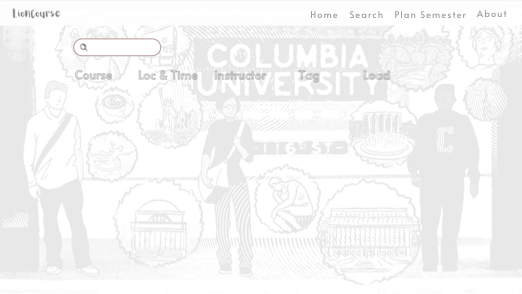
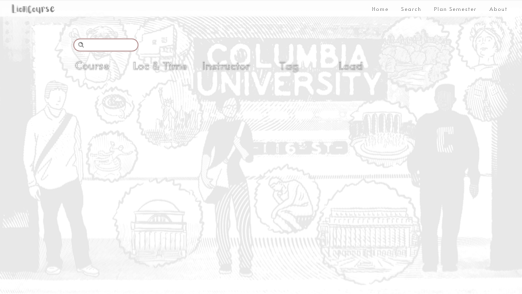
Updates on UI Design Resourse - Sketch

diff --git a/UI Design Resource - Sketch/data/handoff.js b/UI Design Resource - Sketch/data/handoff.js
@@ -1,2 +1,2 @@
 const SYMBOLS_DICT = {};
-const TOKENS_DICT = {};var layersData = [{"ii":0,"tp":"Artboard","nextLinkIndex":0,"artboardType":0,"isModal":false,"disableFixedLayers":false,"overlayOverFixed":false,"overlayAlsoFixed":true,"overlayClosePrevOverlay":false,"transAnimType":0,"overlayByEvent":0,"oldOverlayAlign":0,"overlayPin":0,"overlayPinHotspot":0,"overlayPinPage":0,"index":0,"x":186,"y":273,"w":1920,"h":1080,"c":[{"ii":1,"tp":"Image","x":0,"y":0,"w":1920,"h":1080,"n":"Background","iu":"images/web_home--0.png"},{"ii":2,"tp":"ShapePath","x":0,"y":1,"w":1920,"h":93,"n":"Nav Bar","pr":"background-color: #FFFFFF;\nopacity: 0.9;\n"},{"ii":3,"tp":"Group","x":668,"y":526,"w":584,"h":78,"c":[{"ii":4,"tp":"ShapePath","x":668,"y":526,"w":584,"h":78,"n":"Search Bar","pr":"background-color: #FFFFFF;\nborder-color: #BE9F9F;\nborder-position: inside;\nborder-width: 4px;\nborder-radius: 27px;\n"},{"ii":5,"tp":"Text","x":747,"y":538,"w":371,"h":50,"n":"Search for courses","tx":"Search for courses","pr":"font-family: Alata;\nfont-size: 36px;\ncolor: #545454;\nvertical-align: top;\nfont-weight: 400;\nletter-spacing: 4px;\n"},{"ii":6,"tp":"Image","x":686,"y":542,"w":50.746031746031804,"h":46,"n":"Demo - LionCourse (3)","iu":"images/web_home--1.png"},{"ii":7,"tp":"Image","x":1185,"y":540,"w":59.47286821705438,"h":56,"n":"Demo - LionCourse (3) copy","iu":"images/web_home--2.png"}],"n":"Group"},{"ii":8,"tp":"Image","x":26.874999999999943,"y":14.125,"w":210.98360655737707,"h":66,"n":"Logo - Nav Bar","iu":"images/web_home--3.png"},{"ii":9,"tp":"Image","x":673.4101382488479,"y":347.375,"w":573.1797235023041,"h":180,"n":"Logo - Center","iu":"images/web_home--4.png"},{"ii":10,"tp":"Text","x":1140,"y":26,"w":108,"h":47,"n":"Home","tx":"Home","pr":"font-family: Alata;\nfont-size: 34px;\ncolor: #00000061;\ntext-align: center;\nvertical-align: top;\nfont-weight: 400;\nletter-spacing: 3.7777778px;\n"},{"ii":11,"tp":"Text","x":1282,"y":26,"w":135,"h":47,"n":"Search","tx":"Search","pr":"font-family: Alata;\nfont-size: 34px;\ncolor: #00000061;\ntext-align: center;\nvertical-align: top;\nfont-weight: 400;\nletter-spacing: 3.7777778px;\n"},{"ii":12,"tp":"Text","x":1752,"y":24,"w":118,"h":47,"n":"About","tx":"About","pr":"font-family: Alata;\nfont-size: 34px;\ncolor: #00000061;\ntext-align: center;\nvertical-align: top;\nfont-weight: 400;\nletter-spacing: 3.7777778px;\n"},{"ii":13,"tp":"Text","x":1451,"y":26,"w":267,"h":47,"n":"Plan Semester","tx":"Plan Semester","pr":"font-family: Alata;\nfont-size: 34px;\ncolor: #00000061;\ntext-align: center;\nvertical-align: top;\nfont-weight: 400;\nletter-spacing: 3.7777778px;\n"}],"n":"Web - Home"},{"ii":14,"tp":"Artboard","nextLinkIndex":0,"artboardType":0,"isModal":false,"disableFixedLayers":false,"overlayOverFixed":false,"overlayAlsoFixed":true,"overlayClosePrevOverlay":false,"transAnimType":0,"overlayByEvent":0,"oldOverlayAlign":0,"overlayPin":0,"overlayPinHotspot":0,"overlayPinPage":0,"index":1,"x":-961,"y":-512,"w":1920,"h":1080,"c":[{"ii":15,"tp":"Image","x":0,"y":0,"w":1920,"h":1080,"n":"Background","iu":"images/web_search--0.png"},{"ii":16,"tp":"ShapePath","x":0,"y":1,"w":1920,"h":93,"n":"Nav Bar","pr":"background-color: #FFFFFF;\nopacity: 0.9;\n"},{"ii":17,"tp":"Group","x":269,"y":141,"w":324,"h":66,"c":[{"ii":18,"tp":"ShapePath","x":269,"y":141,"w":324,"h":66,"n":"Search Bar","pr":"background-color: #FFFFFF;\nborder-color: #BE9F9F;\nborder-position: inside;\nborder-width: 4px;\nborder-radius: 39px;\n"},{"ii":19,"tp":"Image","x":285,"y":151,"w":50.746031746031804,"h":46,"n":"Demo - LionCourse (3)","iu":"images/web_search--1.png"}],"n":"Group"},{"ii":20,"tp":"Image","x":26.875,"y":14.125,"w":210.98360655737713,"h":66,"n":"Logo - Nav Bar","iu":"images/web_search--2.png"},{"ii":21,"tp":"Text","x":1140,"y":26,"w":108,"h":47,"n":"Home","tx":"Home","pr":"font-family: Alata;\nfont-size: 34px;\ncolor: #00000061;\ntext-align: center;\nvertical-align: top;\nfont-weight: 400;\nletter-spacing: 3.7777778px;\n"},{"ii":22,"tp":"Text","x":1282,"y":26,"w":135,"h":47,"n":"Search","tx":"Search","pr":"font-family: Alata;\nfont-size: 34px;\ncolor: #00000061;\ntext-align: center;\nvertical-align: top;\nfont-weight: 400;\nletter-spacing: 3.7777778px;\n"},{"ii":23,"tp":"Text","x":1752,"y":24,"w":118,"h":47,"n":"About","tx":"About","pr":"font-family: Alata;\nfont-size: 34px;\ncolor: #00000061;\ntext-align: center;\nvertical-align: top;\nfont-weight: 400;\nletter-spacing: 3.7777778px;\n"},{"ii":24,"tp":"Text","x":1451,"y":26,"w":267,"h":47,"n":"Plan Semester","tx":"Plan Semester","pr":"font-family: Alata;\nfont-size: 34px;\ncolor: #00000061;\ntext-align: center;\nvertical-align: top;\nfont-weight: 400;\nletter-spacing: 3.7777778px;\n"},{"ii":25,"tp":"Image","x":254,"y":232.09991843393152,"w":1197,"h":90.80016313213702,"n":"Title","iu":"images/web_search--3.png"}],"n":"Web - Search"},{"ii":26,"tp":"Artboard","nextLinkIndex":0,"artboardType":0,"isModal":false,"disableFixedLayers":false,"overlayOverFixed":false,"overlayAlsoFixed":true,"overlayClosePrevOverlay":false,"transAnimType":0,"overlayByEvent":0,"oldOverlayAlign":0,"overlayPin":0,"overlayPinHotspot":0,"overlayPinPage":0,"index":2,"x":-961,"y":-512,"w":1920,"h":1080,"c":[{"ii":27,"tp":"Image","x":0,"y":0,"w":1920,"h":1080,"n":"Background","iu":"images/web_about--0.png"},{"ii":28,"tp":"ShapePath","x":0,"y":1,"w":1920,"h":93,"n":"Nav Bar","pr":"background-color: #FFFFFF;\nopacity: 0.9;\n"},{"ii":29,"tp":"Image","x":26.875,"y":14.125,"w":210.98360655737713,"h":66,"n":"Logo - Nav Bar","iu":"images/web_about--1.png"},{"ii":30,"tp":"Text","x":1140,"y":26,"w":108,"h":47,"n":"Home","tx":"Home","pr":"font-family: Alata;\nfont-size: 34px;\ncolor: #00000061;\ntext-align: center;\nvertical-align: top;\nfont-weight: 400;\nletter-spacing: 3.7777778px;\n"},{"ii":31,"tp":"Text","x":1282,"y":26,"w":135,"h":47,"n":"Search","tx":"Search","pr":"font-family: Alata;\nfont-size: 34px;\ncolor: #00000061;\ntext-align: center;\nvertical-align: top;\nfont-weight: 400;\nletter-spacing: 3.7777778px;\n"},{"ii":32,"tp":"Text","x":1752,"y":24,"w":118,"h":47,"n":"About","tx":"About","pr":"font-family: Alata;\nfont-size: 34px;\ncolor: #00000061;\ntext-align: center;\nvertical-align: top;\nfont-weight: 400;\nletter-spacing: 3.7777778px;\n"},{"ii":33,"tp":"Text","x":1451,"y":26,"w":267,"h":47,"n":"Plan Semester","tx":"Plan Semester","pr":"font-family: Alata;\nfont-size: 34px;\ncolor: #00000061;\ntext-align: center;\nvertical-align: top;\nfont-weight: 400;\nletter-spacing: 3.7777778px;\n"},{"ii":34,"tp":"Image","x":776.1643835616438,"y":434,"w":366.6712328767123,"h":213,"n":"Team","iu":"images/web_about--2.png"}],"n":"Web - About"}]
+const TOKENS_DICT = {};var layersData = [{"ii":0,"tp":"Artboard","nextLinkIndex":0,"artboardType":0,"isModal":false,"disableFixedLayers":false,"overlayOverFixed":false,"overlayAlsoFixed":true,"overlayClosePrevOverlay":false,"transAnimType":0,"overlayByEvent":0,"oldOverlayAlign":0,"overlayPin":0,"overlayPinHotspot":0,"overlayPinPage":0,"index":0,"x":186,"y":273,"w":1920,"h":1080,"c":[{"ii":1,"tp":"Image","x":0,"y":0,"w":1920,"h":1080,"n":"Background","iu":"images/web_home--0.png"},{"ii":2,"tp":"Group","x":0,"y":1,"w":1920,"h":60.125,"c":[{"ii":3,"tp":"ShapePath","x":0,"y":1,"w":1920,"h":60,"n":"Nav Bar","pr":"background-color: #FFFFFF;\nopacity: 0.9;\n"},{"ii":4,"tp":"Image","x":24.874999999999943,"y":1.125,"w":191.80327868852459,"h":60,"n":"Logo - Nav Bar","iu":"images/web_home--1.png"},{"ii":5,"tp":"Text","x":1368,"y":17,"w":62,"h":28,"n":"Home","tx":"Home","pr":"font-family: Alata;\nfont-size: 20px;\ncolor: #00000061;\ntext-align: center;\nvertical-align: top;\nfont-weight: 400;\nletter-spacing: 2.2222222px;\n"},{"ii":6,"tp":"Text","x":1474,"y":17,"w":78,"h":28,"n":"Search","tx":"Search","pr":"font-family: Alata;\nfont-size: 20px;\ncolor: #00000061;\ntext-align: center;\nvertical-align: top;\nfont-weight: 400;\nletter-spacing: 2.2222222px;\n"},{"ii":7,"tp":"Text","x":1798,"y":17,"w":72,"h":28,"n":"About","tx":"About","pr":"font-family: Alata;\nfont-size: 20px;\ncolor: #00000061;\ntext-align: center;\nvertical-align: top;\nfont-weight: 400;\nletter-spacing: 2.2222222px;\n"},{"ii":8,"tp":"Text","x":1596,"y":17,"w":158,"h":28,"n":"Plan Semester","tx":"Plan Semester","pr":"font-family: Alata;\nfont-size: 20px;\ncolor: #00000061;\ntext-align: center;\nvertical-align: top;\nfont-weight: 400;\nletter-spacing: 2.2222222px;\n"}],"n":"Group 2"},{"ii":9,"tp":"Group","x":711,"y":510,"w":499,"h":60,"c":[{"ii":10,"tp":"ShapePath","x":711,"y":510,"w":499,"h":60,"n":"Search Bar","pr":"background-color: #FFFFFF;\nborder-color: #BE9F9F;\nborder-position: inside;\nborder-width: 4px;\nborder-radius: 27px;\n"},{"ii":11,"tp":"Text","x":778,"y":523,"w":317,"h":30,"n":"Search for courses","tx":"Search for courses","pr":"font-family: Alata;\nfont-size: 22px;\ncolor: #545454;\nvertical-align: top;\nfont-weight: 400;\nletter-spacing: 2.4444444px;\n"},{"ii":12,"tp":"Image","x":727,"y":522,"w":43,"h":36,"n":"Demo - LionCourse (3)","iu":"images/web_home--2.png"},{"ii":13,"tp":"Image","x":1152,"y":521,"w":51,"h":43,"n":"Demo - LionCourse (3) copy","iu":"images/web_home--3.png"}],"n":"Group"},{"ii":14,"tp":"Image","x":700.4101382488479,"y":355.375,"w":519.0460829493086,"h":163,"n":"Logo - Center","iu":"images/web_home--4.png"}],"n":"Web - Home"},{"ii":15,"tp":"Artboard","nextLinkIndex":0,"artboardType":0,"isModal":false,"disableFixedLayers":false,"overlayOverFixed":false,"overlayAlsoFixed":true,"overlayClosePrevOverlay":false,"transAnimType":0,"overlayByEvent":0,"oldOverlayAlign":0,"overlayPin":0,"overlayPinHotspot":0,"overlayPinPage":0,"index":1,"x":-961,"y":-512,"w":1920,"h":1080,"c":[{"ii":16,"tp":"Image","x":0,"y":0,"w":1920,"h":1080,"n":"Background","iu":"images/web_search--0.png"},{"ii":17,"tp":"Group","x":269,"y":141,"w":241,"h":49,"c":[{"ii":18,"tp":"ShapePath","x":269,"y":141,"w":241,"h":49,"n":"Search Bar","pr":"background-color: #FFFFFF;\nborder-color: #BE9F9F;\nborder-position: inside;\nborder-width: 4px;\nborder-radius: 39px;\n"},{"ii":19,"tp":"Image","x":281,"y":148,"w":38,"h":34,"n":"Demo - LionCourse (3)","iu":"images/web_search--1.png"}],"n":"Group"},{"ii":20,"tp":"Group","x":0,"y":1,"w":1920,"h":60.125,"c":[{"ii":21,"tp":"ShapePath","x":0,"y":1,"w":1920,"h":60,"n":"Nav Bar","pr":"background-color: #FFFFFF;\nopacity: 0.9;\n"},{"ii":22,"tp":"Image","x":24.875,"y":1.125,"w":191.80327868852464,"h":60,"n":"Logo - Nav Bar","iu":"images/web_search--2.png"},{"ii":23,"tp":"Text","x":1368,"y":17,"w":62,"h":28,"n":"Home","tx":"Home","pr":"font-family: Alata;\nfont-size: 20px;\ncolor: #00000061;\ntext-align: center;\nvertical-align: top;\nfont-weight: 400;\nletter-spacing: 2.2222222px;\n"},{"ii":24,"tp":"Text","x":1474,"y":17,"w":78,"h":28,"n":"Search","tx":"Search","pr":"font-family: Alata;\nfont-size: 20px;\ncolor: #00000061;\ntext-align: center;\nvertical-align: top;\nfont-weight: 400;\nletter-spacing: 2.2222222px;\n"},{"ii":25,"tp":"Text","x":1798,"y":17,"w":72,"h":28,"n":"About","tx":"About","pr":"font-family: Alata;\nfont-size: 20px;\ncolor: #00000061;\ntext-align: center;\nvertical-align: top;\nfont-weight: 400;\nletter-spacing: 2.2222222px;\n"},{"ii":26,"tp":"Text","x":1596,"y":17,"w":158,"h":28,"n":"Plan Semester","tx":"Plan Semester","pr":"font-family: Alata;\nfont-size: 20px;\ncolor: #00000061;\ntext-align: center;\nvertical-align: top;\nfont-weight: 400;\nletter-spacing: 2.2222222px;\n"}],"n":"Group 2"},{"ii":27,"tp":"Image","x":257,"y":202.09991843393152,"w":1094.172043010753,"h":83,"n":"Title","iu":"images/web_search--3.png"}],"n":"Web - Search"},{"ii":28,"tp":"Artboard","nextLinkIndex":0,"artboardType":0,"isModal":false,"disableFixedLayers":false,"overlayOverFixed":false,"overlayAlsoFixed":true,"overlayClosePrevOverlay":false,"transAnimType":0,"overlayByEvent":0,"oldOverlayAlign":0,"overlayPin":0,"overlayPinHotspot":0,"overlayPinPage":0,"index":2,"x":-961,"y":-512,"w":1920,"h":1080,"c":[{"ii":29,"tp":"Image","x":0,"y":0,"w":1920,"h":1080,"n":"Background","iu":"images/web_about--0.png"},{"ii":30,"tp":"Group","x":0,"y":1,"w":1920,"h":60.125,"c":[{"ii":31,"tp":"ShapePath","x":0,"y":1,"w":1920,"h":60,"n":"Nav Bar","pr":"background-color: #FFFFFF;\nopacity: 0.9;\n"},{"ii":32,"tp":"Image","x":24.875,"y":1.125,"w":191.80327868852464,"h":60,"n":"Logo - Nav Bar","iu":"images/web_about--1.png"},{"ii":33,"tp":"Text","x":1368,"y":17,"w":62,"h":28,"n":"Home","tx":"Home","pr":"font-family: Alata;\nfont-size: 20px;\ncolor: #00000061;\ntext-align: center;\nvertical-align: top;\nfont-weight: 400;\nletter-spacing: 2.2222222px;\n"},{"ii":34,"tp":"Text","x":1474,"y":17,"w":78,"h":28,"n":"Search","tx":"Search","pr":"font-family: Alata;\nfont-size: 20px;\ncolor: #00000061;\ntext-align: center;\nvertical-align: top;\nfont-weight: 400;\nletter-spacing: 2.2222222px;\n"},{"ii":35,"tp":"Text","x":1798,"y":17,"w":72,"h":28,"n":"About","tx":"About","pr":"font-family: Alata;\nfont-size: 20px;\ncolor: #00000061;\ntext-align: center;\nvertical-align: top;\nfont-weight: 400;\nletter-spacing: 2.2222222px;\n"},{"ii":36,"tp":"Text","x":1596,"y":17,"w":158,"h":28,"n":"Plan Semester","tx":"Plan Semester","pr":"font-family: Alata;\nfont-size: 20px;\ncolor: #00000061;\ntext-align: center;\nvertical-align: top;\nfont-weight: 400;\nletter-spacing: 2.2222222px;\n"}],"n":"Group 2"},{"ii":37,"tp":"Image","x":776.1643835616438,"y":434,"w":366.6712328767123,"h":213,"n":"Team","iu":"images/web_about--2.png"}],"n":"Web - About"}]

diff --git a/Proj/server.py b/Proj/server.py
@@ -5,7 +5,7 @@ from dbfunction import DatabaseConnection, SearchFunction
 
 host = 'localhost'
 database_user_id = 'root'
-database_user_password = ''
+database_user_password = 'hx687099'
 default_scheme = '6156_project'
 
 db = DatabaseConnection(host, database_user_id, database_user_password, default_scheme)
@@ -31,7 +31,7 @@ def search():
 # submitted search keywords
 @app.route('/search_page/<search_key>')
 def search_page(search_key):
-    search_engine = SearchFunction(default_scheme, 'course_info_open_data')
+    search_engine = SearchFunction(default_scheme, 'Course_info')
     sql = search_engine.ambiguous_search(search_key)
     cur.execute(sql)
     query_output = cur.fetchall()

diff --git a/Proj/dbfunction.py b/Proj/dbfunction.py
@@ -26,5 +26,7 @@ class SearchFunction:
         mysql = "select * from {}.{} where Course like '%{}%' or CourseTitle like '%{}%' or CourseSubtitle like '%{}%'".format(self.database_name, self.table_name, string, string, string)
         return mysql
 
+    def qualify_search(self):
+        pass
 
 
